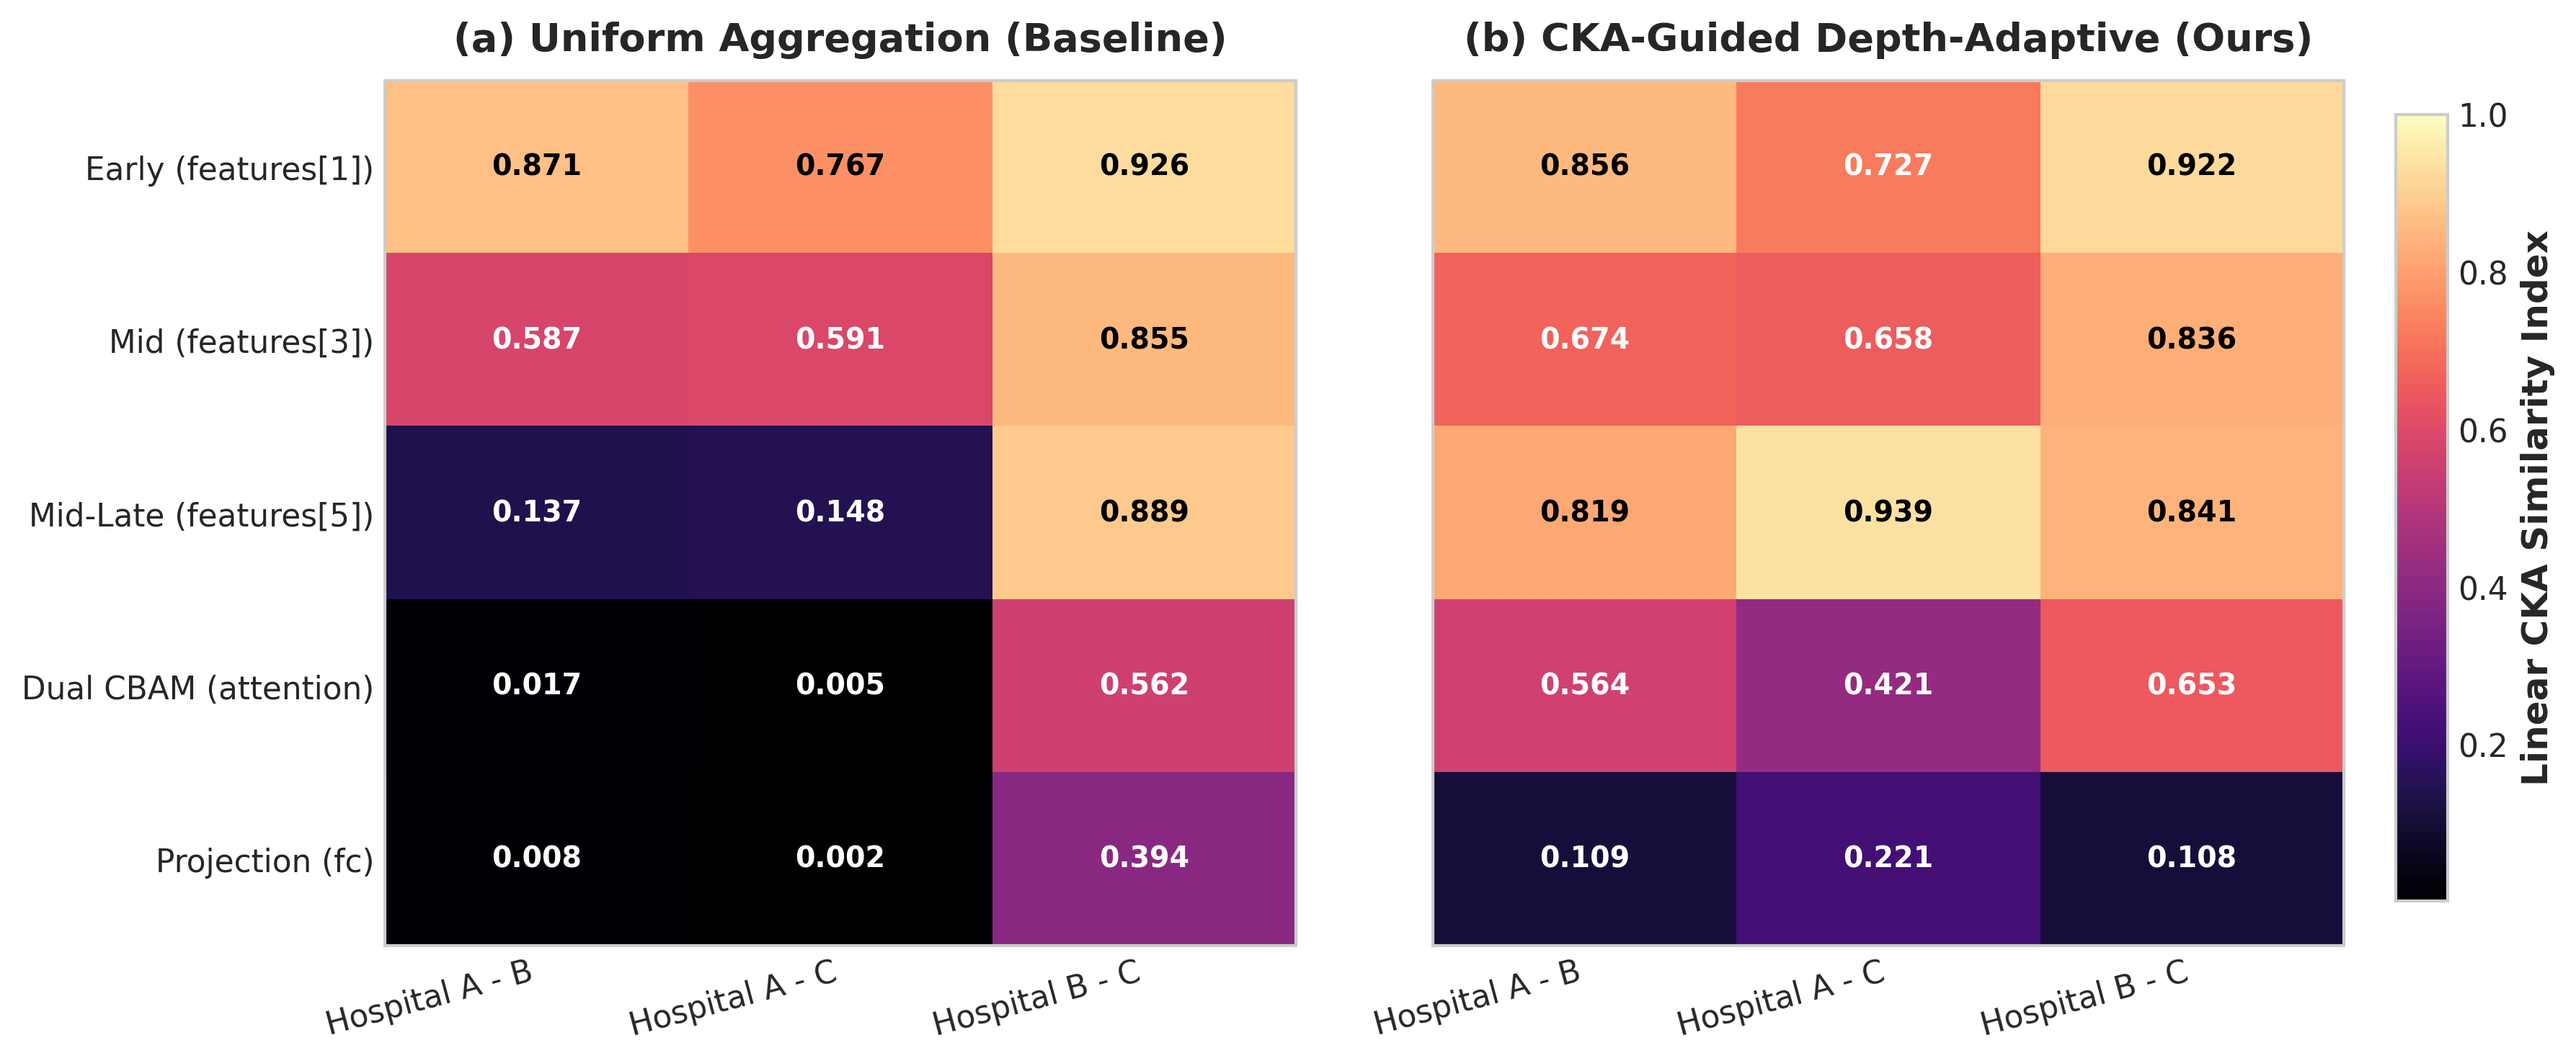
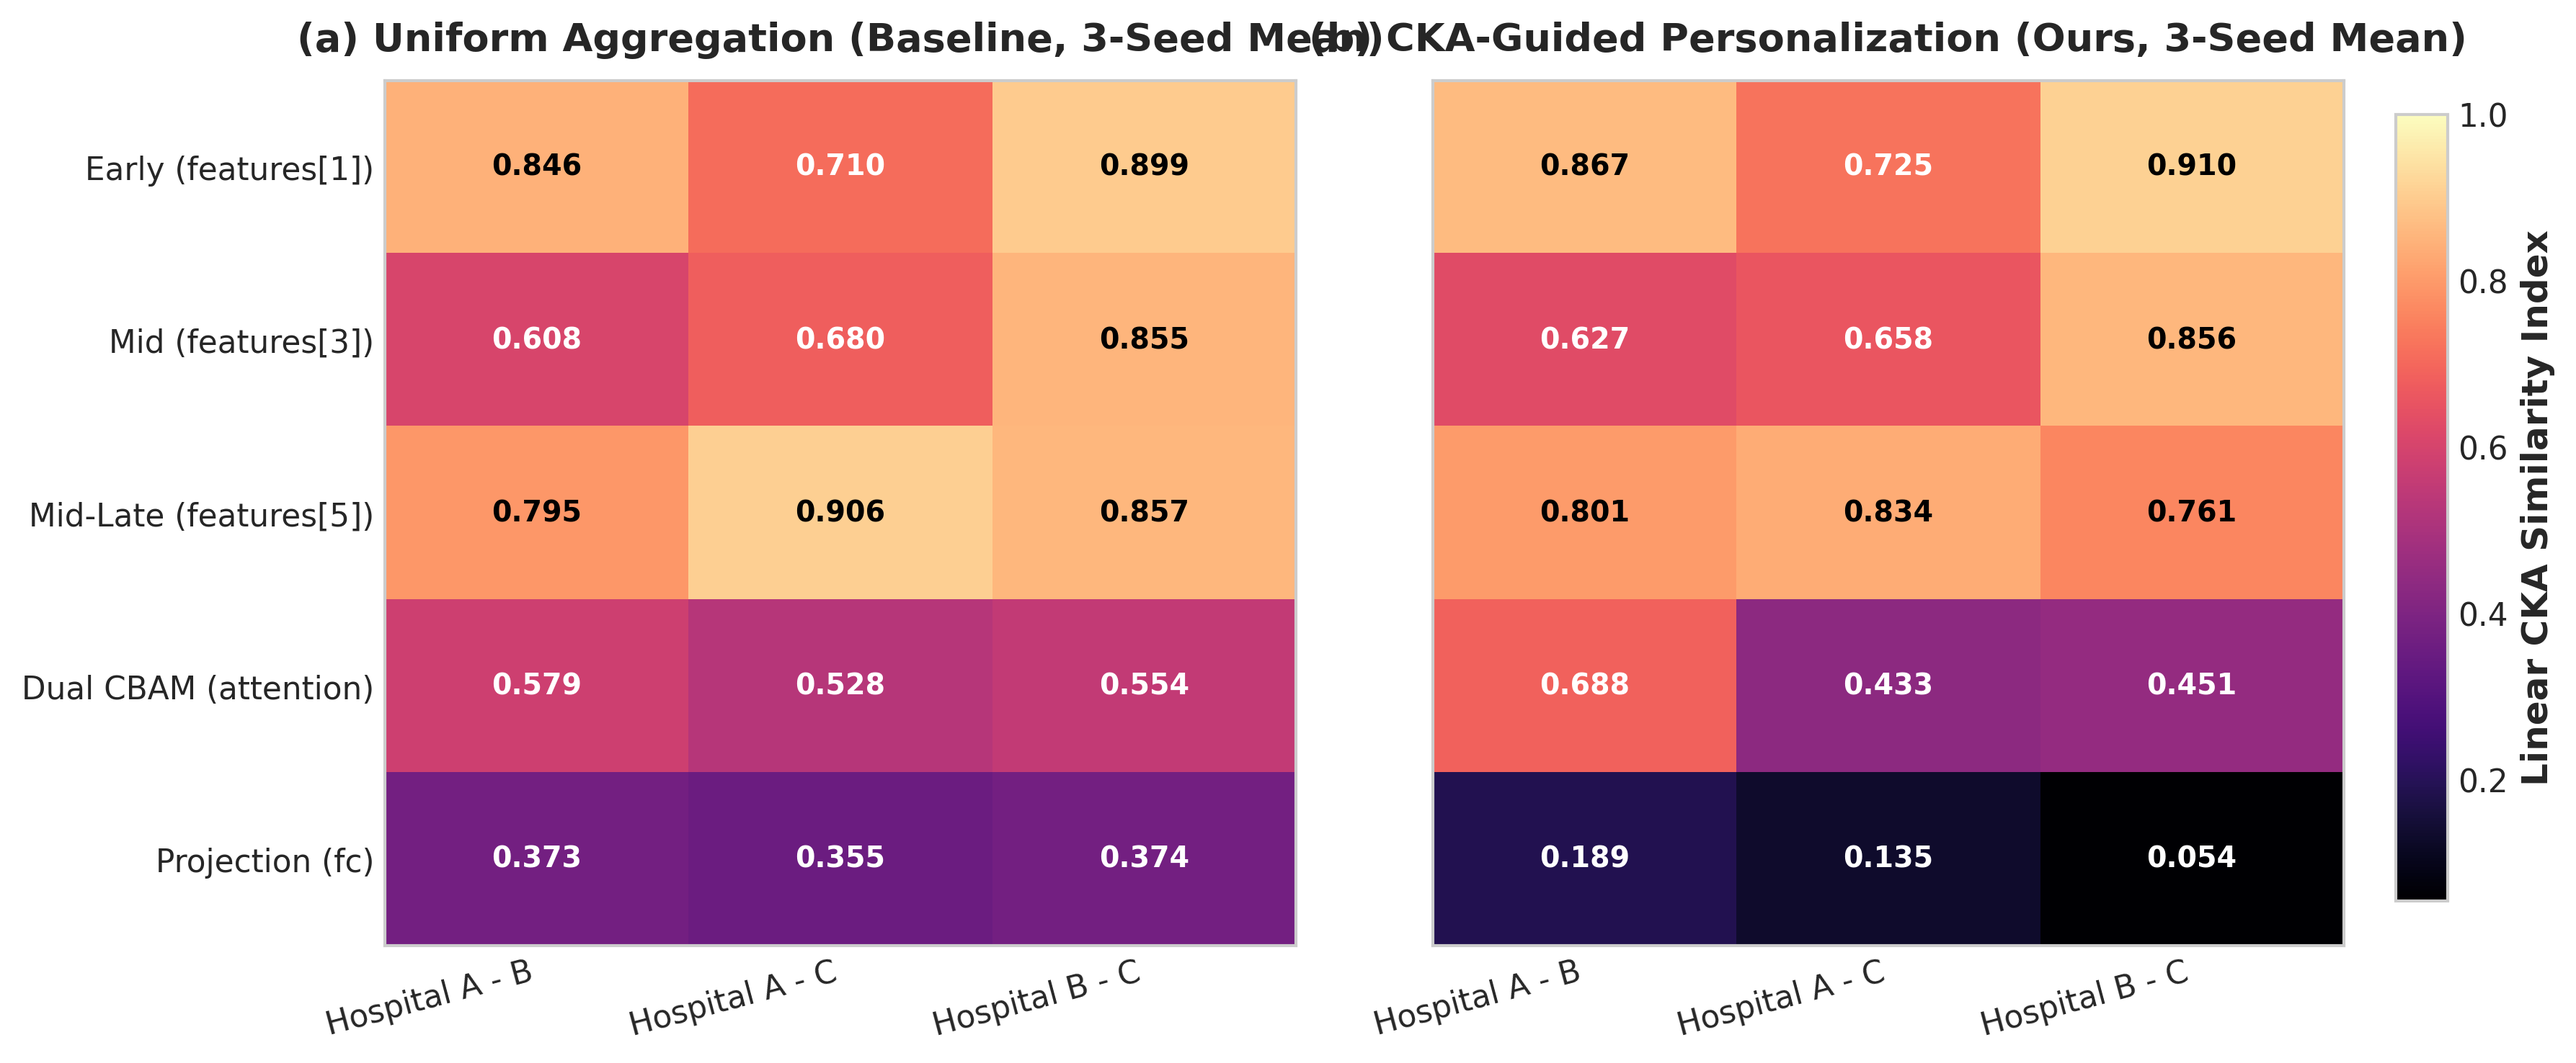
feat(analysis): add multi-seed CKA evaluation and statistical significance tables for personalized models

diff --git a/scripts/compute_cka.py b/scripts/compute_cka.py
@@ -90,11 +90,8 @@ def collect_layer_activations(net, data_loader, device, max_samples=200):
     extractor.remove()
     return {k: torch.cat(v, dim=0)[:max_samples].numpy() for k, v in layer_acts.items()}
 
-def evaluate_cka_for_dir(models_dir, probe_loader, device, seed=0, strategy='fedua'):
+def evaluate_cka_for_seed(models_dir, probe_loader, device, seed=0, strategy='fedua'):
     models_path = Path(models_dir)
-    print(f"\n[CKA] Evaluating checkpoints in: {models_path}")
-    
-    # Client class counts: A (Brain MRI: 4), B (US: 3), C (COVID X-Ray: 4)
     ncls_map = {0: 4, 1: 3, 2: 4}
     client_acts = {}
     
@@ -107,7 +104,6 @@ def evaluate_cka_for_dir(models_dir, probe_loader, device, seed=0, strategy='fed
         net.load_state_dict(torch.load(ckpt_file, map_location=device))
         acts = collect_layer_activations(net, probe_loader, device, max_samples=200)
         client_acts[c] = acts
-        print(f"  Client {c} activations extracted from {ckpt_file.name}")
 
     layers = ['features[1]', 'features[3]', 'features[5]', 'attention', 'fc']
     layer_labels = ['Early (features[1])', 'Mid (features[3])', 'Mid-Late (features[5])', 'Dual CBAM (attention)', 'Projection (fc)']
@@ -125,14 +121,13 @@ def evaluate_cka_for_dir(models_dir, probe_loader, device, seed=0, strategy='fed
             'cka_B_C': cka_bc,
             'mean_cka': mean_cka
         }
-        print(f"  Layer {l_name:24s} -> A-B: {cka_ab:.4f} | A-C: {cka_ac:.4f} | B-C: {cka_bc:.4f} | Mean: {mean_cka:.4f}")
-        
     return results
 
 def main():
     parser = argparse.ArgumentParser()
-    parser.add_argument('--baseline_models', default='./outputs_checkpoints_uniform_baseline/final_models')
-    parser.add_argument('--personalized_models', default='./outputs_checkpoints_personalized/final_models')
+    parser.add_argument('--baseline_models', default='./outputs_checkpoints_uniform_baseline_3seed/final_models')
+    parser.add_argument('--personalized_models', default='./outputs_checkpoints_personalized_3seed/final_models')
+    parser.add_argument('--seeds', type=int, nargs='+', default=[0, 1, 2])
     parser.add_argument('--output_dir', default='./results')
     args = parser.parse_args()
     
@@ -155,52 +150,84 @@ def main():
     probe_loader = torch.utils.data.DataLoader(probe_ds, batch_size=32, shuffle=False)
     print(f"[OK] Probe dataset: {len(probe_ds)} validation images.")
     
-    # Compute CKA for baseline & personalized
-    baseline_res = evaluate_cka_for_dir(args.baseline_models, probe_loader, device)
-    personalized_res = evaluate_cka_for_dir(args.personalized_models, probe_loader, device)
+    layer_labels = ['Early (features[1])', 'Mid (features[3])', 'Mid-Late (features[5])', 'Dual CBAM (attention)', 'Projection (fc)']
     
-    # Build comparison dataframe
-    rows = []
-    for k in baseline_res:
-        b_mean = baseline_res[k]['mean_cka']
-        p_mean = personalized_res[k]['mean_cka']
-        delta = p_mean - b_mean
-        rows.append({
-            'layer': k,
-            'cka_uniform_baseline': b_mean,
-            'cka_personalize_deep': p_mean,
-            'delta': delta,
-            'baseline_A_B': baseline_res[k]['cka_A_B'],
-            'baseline_A_C': baseline_res[k]['cka_A_C'],
-            'baseline_B_C': baseline_res[k]['cka_B_C'],
-            'pers_A_B': personalized_res[k]['cka_A_B'],
-            'pers_A_C': personalized_res[k]['cka_A_C'],
-            'pers_B_C': personalized_res[k]['cka_B_C'],
+    # Collect per-seed evaluations
+    baseline_seed_res = {s: evaluate_cka_for_seed(args.baseline_models, probe_loader, device, seed=s) for s in args.seeds}
+    pers_seed_res = {s: evaluate_cka_for_seed(args.personalized_models, probe_loader, device, seed=s) for s in args.seeds}
+    
+    # Compute cross-seed statistics
+    rows_3seed = []
+    for l_name in layer_labels:
+        b_means = [baseline_seed_res[s][l_name]['mean_cka'] for s in args.seeds]
+        p_means = [pers_seed_res[s][l_name]['mean_cka'] for s in args.seeds]
+        deltas = [p - b for p, b in zip(p_means, b_means)]
+        
+        b_ab = [baseline_seed_res[s][l_name]['cka_A_B'] for s in args.seeds]
+        b_ac = [baseline_seed_res[s][l_name]['cka_A_C'] for s in args.seeds]
+        b_bc = [baseline_seed_res[s][l_name]['cka_B_C'] for s in args.seeds]
+        
+        p_ab = [pers_seed_res[s][l_name]['cka_A_B'] for s in args.seeds]
+        p_ac = [pers_seed_res[s][l_name]['cka_A_C'] for s in args.seeds]
+        p_bc = [pers_seed_res[s][l_name]['cka_B_C'] for s in args.seeds]
+        
+        rows_3seed.append({
+            'layer': l_name,
+            'baseline_mean': np.mean(b_means),
+            'baseline_std': np.std(b_means, ddof=1) if len(args.seeds) > 1 else 0.0,
+            'pers_mean': np.mean(p_means),
+            'pers_std': np.std(p_means, ddof=1) if len(args.seeds) > 1 else 0.0,
+            'delta_mean': np.mean(deltas),
+            'delta_std': np.std(deltas, ddof=1) if len(args.seeds) > 1 else 0.0,
+            'baseline_A_B_mean': np.mean(b_ab),
+            'baseline_A_C_mean': np.mean(b_ac),
+            'baseline_B_C_mean': np.mean(b_bc),
+            'pers_A_B_mean': np.mean(p_ab),
+            'pers_A_C_mean': np.mean(p_ac),
+            'pers_B_C_mean': np.mean(p_bc),
         })
         
-    df_res = pd.DataFrame(rows)
-    csv_path = out_dir / 'cka_before_after.csv'
-    df_res.to_csv(csv_path, index=False)
-    print(f"\n[OK] CKA comparison saved to: {csv_path}")
-    print("\n" + "=" * 75)
-    print("                     CKA REPRESENTATION SIMILARITY COMPARISON")
-    print("=" * 75)
-    print(df_res[['layer', 'cka_uniform_baseline', 'cka_personalize_deep', 'delta']].to_string(index=False))
+    df_3seed = pd.DataFrame(rows_3seed)
+    csv_3seed_path = out_dir / 'cka_before_after_3seed.csv'
+    df_3seed.to_csv(csv_3seed_path, index=False)
+    print(f"\n[OK] 3-seed CKA comparison saved to: {csv_3seed_path}")
+    print("\n" + "=" * 85)
+    print("                     3-SEED CKA REPRESENTATION SIMILARITY (MEAN +/- STD)")
+    print("=" * 85)
+    print(df_3seed[['layer', 'baseline_mean', 'baseline_std', 'pers_mean', 'pers_std', 'delta_mean', 'delta_std']].to_string(index=False))
     
-    # Render Two-Panel Figure (Fig 7b)
+    # Also save single-seed for backwards compatibility if seed 0 in args.seeds
+    if 0 in args.seeds:
+        rows_s0 = []
+        for l_name in layer_labels:
+            b_val = baseline_seed_res[0][l_name]['mean_cka']
+            p_val = pers_seed_res[0][l_name]['mean_cka']
+            rows_s0.append({
+                'layer': l_name,
+                'cka_uniform_baseline': b_val,
+                'cka_personalize_deep': p_val,
+                'delta': p_val - b_val,
+                'baseline_A_B': baseline_seed_res[0][l_name]['cka_A_B'],
+                'baseline_A_C': baseline_seed_res[0][l_name]['cka_A_C'],
+                'baseline_B_C': baseline_seed_res[0][l_name]['cka_B_C'],
+                'pers_A_B': pers_seed_res[0][l_name]['cka_A_B'],
+                'pers_A_C': pers_seed_res[0][l_name]['cka_A_C'],
+                'pers_B_C': pers_seed_res[0][l_name]['cka_B_C'],
+            })
+        pd.DataFrame(rows_s0).to_csv(out_dir / 'cka_before_after.csv', index=False)
+
+    # Render Two-Panel Figure (Fig 7b) using 3-seed means
     setup_academic_style()
     fig, axes = plt.subplots(1, 2, figsize=(12, 5.2), sharey=True)
     
-    layers = [r['layer'] for r in rows]
+    layers = [r['layer'] for r in rows_3seed]
     pairs = ['Hospital A - B', 'Hospital A - C', 'Hospital B - C']
     
-    # Matrix for baseline
     b_mat = np.array([
-        [r['baseline_A_B'], r['baseline_A_C'], r['baseline_B_C']] for r in rows
+        [r['baseline_A_B_mean'], r['baseline_A_C_mean'], r['baseline_B_C_mean']] for r in rows_3seed
     ])
-    # Matrix for personalized
     p_mat = np.array([
-        [r['pers_A_B'], r['pers_A_C'], r['pers_B_C']] for r in rows
+        [r['pers_A_B_mean'], r['pers_A_C_mean'], r['pers_B_C_mean']] for r in rows_3seed
     ])
     
     vmin = min(b_mat.min(), p_mat.min(), 0.3)
@@ -208,14 +235,13 @@ def main():
     cmap = 'magma'
     
     im0 = axes[0].imshow(b_mat, aspect='auto', cmap=cmap, vmin=vmin, vmax=vmax)
-    axes[0].set_title('(a) Uniform Aggregation (Baseline)', fontweight='bold', pad=10)
+    axes[0].set_title('(a) Uniform Aggregation (Baseline, 3-Seed Mean)', fontweight='bold', pad=10)
     axes[0].set_xticks(range(3))
     axes[0].set_xticklabels(pairs, rotation=15, ha='right')
     axes[0].set_yticks(range(len(layers)))
     axes[0].set_yticklabels(layers)
     axes[0].grid(False)
     
-    # Annotate values
     for i in range(len(layers)):
         for j in range(3):
             val = b_mat[i, j]
@@ -223,7 +249,7 @@ def main():
                          color='white' if val < 0.75 else 'black', fontweight='bold', fontsize=9.5)
             
     im1 = axes[1].imshow(p_mat, aspect='auto', cmap=cmap, vmin=vmin, vmax=vmax)
-    axes[1].set_title('(b) CKA-Guided Depth-Adaptive (Ours)', fontweight='bold', pad=10)
+    axes[1].set_title('(b) CKA-Guided Personalization (Ours, 3-Seed Mean)', fontweight='bold', pad=10)
     axes[1].set_xticks(range(3))
     axes[1].set_xticklabels(pairs, rotation=15, ha='right')
     axes[1].grid(False)

diff --git a/analyze.py b/analyze.py
@@ -22,7 +22,10 @@ if sys.stdout.encoding != 'utf-8':
 
 _ap = argparse.ArgumentParser()
 _ap.add_argument('--out', default='./outputs_experiments')
-OUT = Path(_ap.parse_args().out)
+_ap.add_argument('--baseline_dir', default=None, help='Directory containing baseline raw_*.csv files (e.g. ./results/verified/main_uniform)')
+_args = _ap.parse_args()
+OUT = Path(_args.out)
+BASELINE_DIR = Path(_args.baseline_dir) if _args.baseline_dir else None
 RAW = OUT / 'raw'
 REP = OUT / 'reports'
 REP.mkdir(parents=True, exist_ok=True)
@@ -31,6 +34,12 @@ REF = 'fedua'
 
 def load_raw():
     frames = []
+    if BASELINE_DIR:
+        b_raw = BASELINE_DIR / 'raw' if (BASELINE_DIR / 'raw').exists() else BASELINE_DIR
+        for f in sorted(b_raw.glob('raw_*_seed*.csv')):
+            if 'smoke' in f.name or f'raw_{REF}_' in f.name:
+                continue
+            frames.append(pd.read_csv(f))
     for f in sorted(RAW.glob('raw_*_seed*.csv')):
         if 'smoke' in f.name:
             continue
